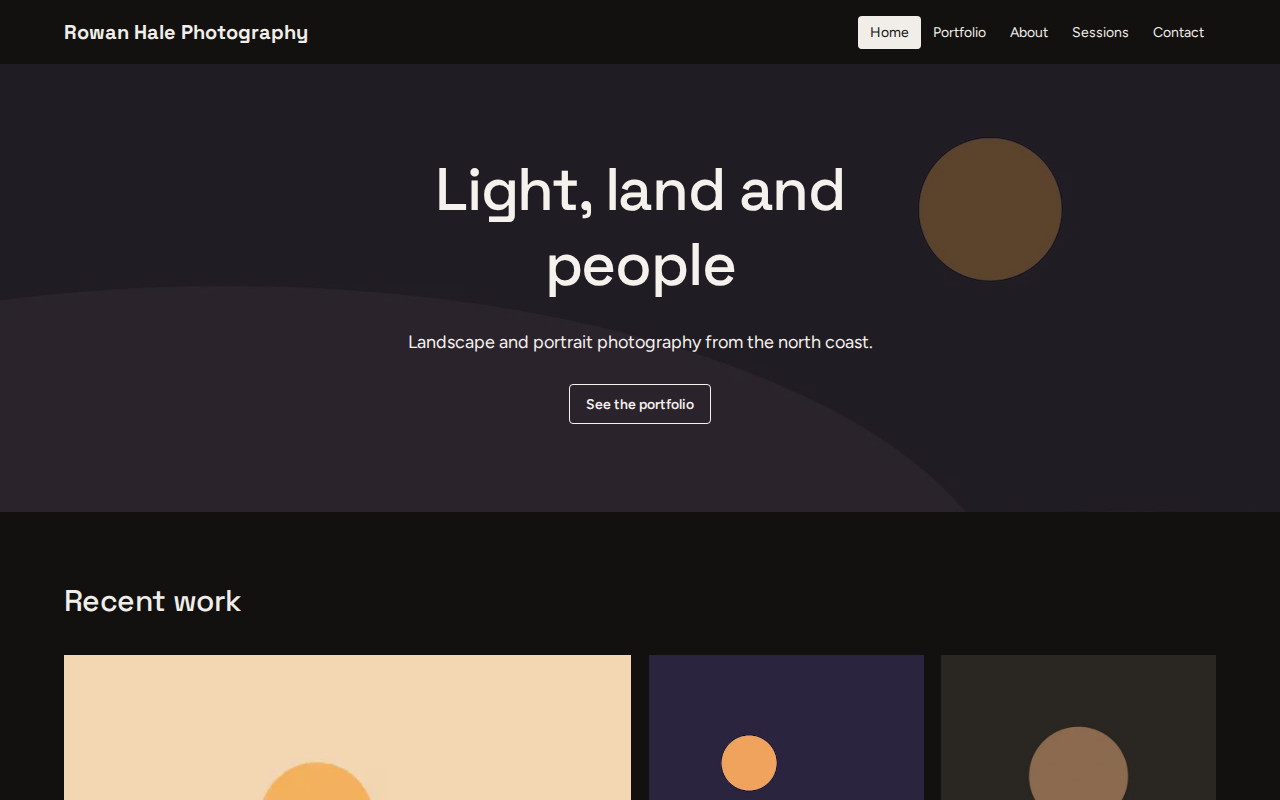
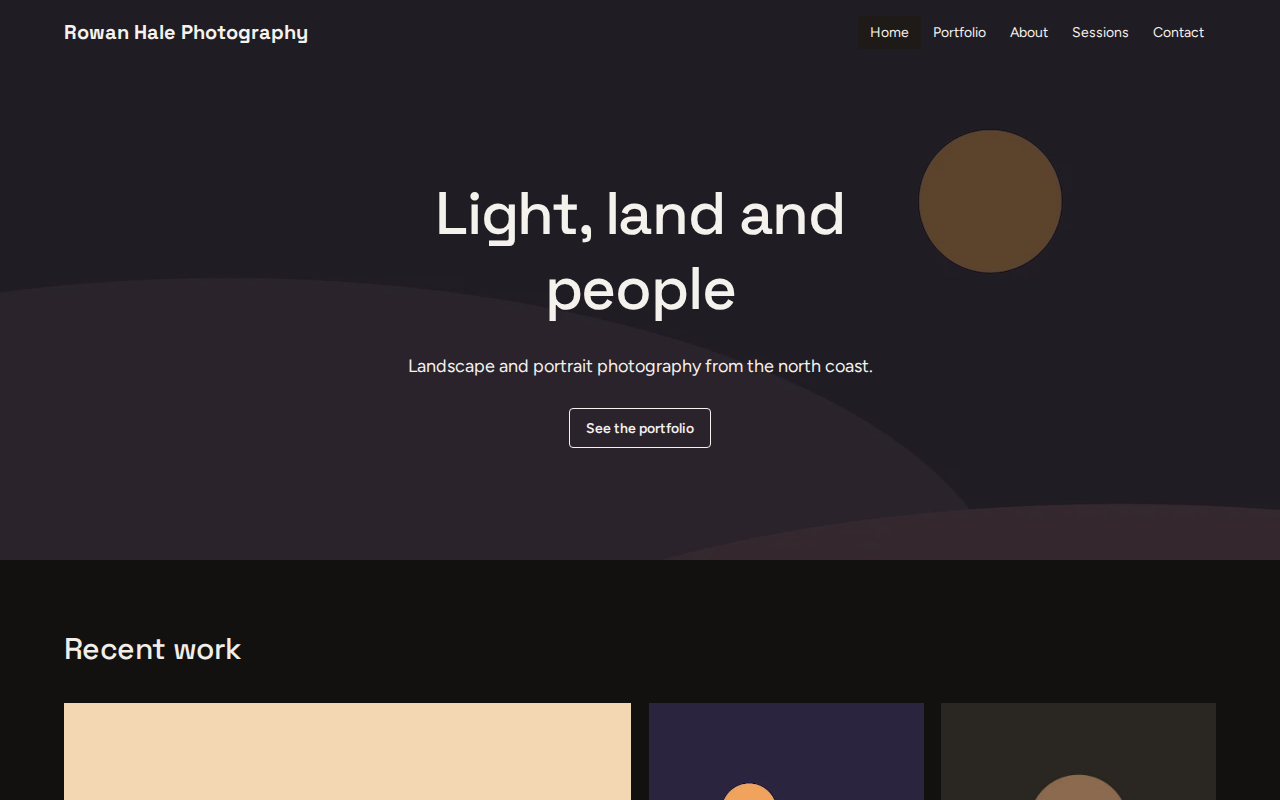
feat(templates): photographer starts with the header joined to its hero (hh-8)
Photographer's Header has the Background "The first section's", and its
Hero, with its picture behind the text, is Tall. The other templates keep
the Header's own band. Its thumbnail, template screenshots and golden
export are redrawn, and the help page says which template starts joined.

diff --git a/packages/pipeline/test/golden/templates/photographer/index.html b/packages/pipeline/test/golden/templates/photographer/index.html
@@ -4,7 +4,7 @@
   <meta charset="utf-8">
   <meta name="viewport" content="width=device-width, initial-scale=1">
   <title>Rowan Hale Photography</title>
-  <link rel="stylesheet" href="assets/css/site.ee17bc4243.css">
+  <link rel="stylesheet" href="assets/css/site.2ada935c7d.css">
   <meta property="og:type" content="website">
   <meta property="og:site_name" content="Rowan Hale Photography">
   <meta property="og:title" content="Rowan Hale Photography">
@@ -23,11 +23,11 @@
   "name": "Rowan Hale Photography"
 }
 </script>
-  <script defer src="assets/js/webforge.e687efd495.js"></script>
+  <script defer src="assets/js/webforge.8be1f85cf9.js"></script>
 </head>
 <body class="flex min-h-screen flex-col bg-base-100 font-sans text-base-content">
   <!-- Header (shared) -->
-  <header class="site-header relative z-30 px-4 bg-base-100 shadow-sm">
+  <header class="site-header relative z-30 px-4 -mb-(--wf-header-h) bg-transparent data-scrolled:text-base-content! [:root:has(&amp;)]:[--wf-header-h:4rem] text-neutral-content" data-wf-joined="" data-theme="wf_inverse">
     <div class="site-header-bar mx-auto w-full max-w-6xl navbar gap-2 px-0">
       <div class="flex-1"><a class="font-heading text-xl font-bold" href="index.html">Rowan Hale Photography</a></div>
       <nav aria-label="Main navigation">
@@ -39,10 +39,10 @@
           <li><a href="contact.html">Contact</a></li>
         </ul>
         <details class="site-menu md:hidden" data-wf-menu="">
-          <summary class="btn btn-square btn-ghost list-none [&amp;::-webkit-details-marker]:hidden"><svg xmlns="http://www.w3.org/2000/svg" viewBox="0 0 24 24" width="24" height="24" fill="none" stroke="currentColor" stroke-width="2" stroke-linecap="round" aria-hidden="true">
+          <summary class="btn btn-square btn-ghost list-none [&amp;::-webkit-details-marker]:hidden text-inherit"><svg xmlns="http://www.w3.org/2000/svg" viewBox="0 0 24 24" width="24" height="24" fill="none" stroke="currentColor" stroke-width="2" stroke-linecap="round" aria-hidden="true">
               <path d="M4 6h16M4 12h16M4 18h16"></path>
             </svg><span class="sr-only">Menu</span></summary>
-          <ul class="menu absolute inset-x-0 top-full z-10 w-full bg-base-100 p-2 shadow">
+          <ul class="menu absolute inset-x-0 top-full z-10 w-full bg-base-100 p-2 shadow text-base-content">
             <li><a href="index.html" aria-current="page">Home</a></li>
             <li><a href="portfolio.html">Portfolio</a></li>
             <li><a href="about.html">About</a></li>
@@ -54,7 +54,7 @@
     </div>
   </header>
   <main id="main" class="flex-1">
-    <section class="site-hero relative flex min-h-[28rem] items-center justify-center overflow-hidden bg-neutral px-4 py-16" data-theme="wf_inverse">
+    <section class="site-hero relative flex min-h-[max(28rem,calc(var(--wf-viewport-h,100svh)*0.7))] items-center justify-center overflow-hidden bg-neutral px-4 pt-[calc(var(--wf-header-h)+var(--spacing)*16)] pb-16" data-theme="wf_inverse">
       <picture>
         <source type="image/webp" srcSet="assets/img/hero-640.webp 640w, assets/img/hero-1280.webp 1280w, assets/img/hero-1800.webp 1800w" sizes="100vw" /><img src="assets/img/hero-1800.jpg" srcSet="assets/img/hero-640.jpg 640w, assets/img/hero-1280.jpg 1280w, assets/img/hero-1800.jpg 1800w" sizes="100vw" width="1800" height="1000" alt="Placeholder: the coast at sunset" loading="eager" fetchPriority="high" decoding="async" class="absolute inset-0 h-full w-full object-cover" />
       </picture>

diff --git a/packages/templates/test/templates.test.ts b/packages/templates/test/templates.test.ts
@@ -22,7 +22,13 @@ import {
   siteDocSchema,
 } from "@webforge/model";
 import { checkSite } from "@webforge/site-check";
-import { isIconName, sectionOverlay, siteLibrary, walkNodes } from "@webforge/site-components";
+import {
+  isIconName,
+  joinedHeaderOf,
+  sectionOverlay,
+  siteLibrary,
+  walkNodes,
+} from "@webforge/site-components";
 import { CATALOGUE } from "@webforge/site-components/catalogue-data";
 import { TEST_DIR_REMOVAL } from "@webforge/test-utils/vitest";
 import { overlayContrastIssue, THEME_PRESETS } from "@webforge/themes";
@@ -398,6 +404,31 @@ describe("siteFromTemplate (2.14a)", () => {
       siteFromTemplate(own, images, { name: "x", theme: DEFAULT_THEME }).settings.general
         .businessType,
     ).toBe("shop");
+  });
+
+  it("joins the Header to the Hero in Photographer only, where its picture is behind the text (HH-8)", () => {
+    const joinedPages: Record<string, string[]> = {};
+    for (const { template, images } of templates) {
+      // As New Site and the quick start make it.
+      const site = siteFromTemplate(template, images, { name: "x", theme: DEFAULT_THEME });
+      const header = site.layout.header.find((node) => node.type === "Header");
+      expect(header?.props.background === "section", template.id).toBe(
+        template.id === "photographer",
+      );
+      joinedPages[template.id] = site.pageOrder.filter(
+        (id) =>
+          joinedHeaderOf(
+            { header: site.layout.header, content: site.pages[id]?.doc.content ?? [] },
+            siteLibrary,
+          ) !== undefined,
+      );
+    }
+    // Its other pages open on the page's own colours, so the Header keeps its band there (HH-1).
+    const photographer = templates.find(({ template }) => template.id === "photographer");
+    expect(joinedPages).toEqual({
+      ...Object.fromEntries(TEMPLATE_IDS.map((id) => [id, []])),
+      photographer: [photographer?.template.site.homePageId],
+    });
   });
 
   it("makes the template's site, named and in the chosen theme, with its images in Media", () => {

diff --git a/packages/pipeline/test/golden/templates/photographer/404.html b/packages/pipeline/test/golden/templates/photographer/404.html
@@ -4,13 +4,13 @@
   <meta charset="utf-8">
   <meta name="viewport" content="width=device-width, initial-scale=1">
   <title>Page not found | Rowan Hale Photography</title>
-  <link rel="stylesheet" href="/assets/css/site.ee17bc4243.css">
+  <link rel="stylesheet" href="/assets/css/site.2ada935c7d.css">
   <meta name="robots" content="noindex">
   <meta property="og:type" content="website">
   <meta property="og:site_name" content="Rowan Hale Photography">
   <meta property="og:title" content="Page not found | Rowan Hale Photography">
   <meta name="twitter:card" content="summary">
-  <script defer src="/assets/js/webforge.e687efd495.js"></script>
+  <script defer src="/assets/js/webforge.8be1f85cf9.js"></script>
 </head>
 <body class="flex min-h-screen flex-col bg-base-100 font-sans text-base-content">
   <!-- Header (shared) -->

diff --git a/packages/pipeline/test/golden/templates/photographer/portfolio.html b/packages/pipeline/test/golden/templates/photographer/portfolio.html
@@ -4,12 +4,12 @@
   <meta charset="utf-8">
   <meta name="viewport" content="width=device-width, initial-scale=1">
   <title>Portfolio | Rowan Hale Photography</title>
-  <link rel="stylesheet" href="assets/css/site.ee17bc4243.css">
+  <link rel="stylesheet" href="assets/css/site.2ada935c7d.css">
   <meta property="og:type" content="website">
   <meta property="og:site_name" content="Rowan Hale Photography">
   <meta property="og:title" content="Portfolio | Rowan Hale Photography">
   <meta name="twitter:card" content="summary">
-  <script defer src="assets/js/webforge.e687efd495.js"></script>
+  <script defer src="assets/js/webforge.8be1f85cf9.js"></script>
 </head>
 <body class="flex min-h-screen flex-col bg-base-100 font-sans text-base-content">
   <!-- Header (shared) -->

diff --git a/packages/pipeline/test/golden/templates/photographer/sessions.html b/packages/pipeline/test/golden/templates/photographer/sessions.html
@@ -4,12 +4,12 @@
   <meta charset="utf-8">
   <meta name="viewport" content="width=device-width, initial-scale=1">
   <title>Sessions | Rowan Hale Photography</title>
-  <link rel="stylesheet" href="assets/css/site.ee17bc4243.css">
+  <link rel="stylesheet" href="assets/css/site.2ada935c7d.css">
   <meta property="og:type" content="website">
   <meta property="og:site_name" content="Rowan Hale Photography">
   <meta property="og:title" content="Sessions | Rowan Hale Photography">
   <meta name="twitter:card" content="summary">
-  <script defer src="assets/js/webforge.e687efd495.js"></script>
+  <script defer src="assets/js/webforge.8be1f85cf9.js"></script>
 </head>
 <body class="flex min-h-screen flex-col bg-base-100 font-sans text-base-content">
   <!-- Header (shared) -->

diff --git a/packages/pipeline/test/golden/templates/photographer/contact.html b/packages/pipeline/test/golden/templates/photographer/contact.html
@@ -4,12 +4,12 @@
   <meta charset="utf-8">
   <meta name="viewport" content="width=device-width, initial-scale=1">
   <title>Contact | Rowan Hale Photography</title>
-  <link rel="stylesheet" href="assets/css/site.ee17bc4243.css">
+  <link rel="stylesheet" href="assets/css/site.2ada935c7d.css">
   <meta property="og:type" content="website">
   <meta property="og:site_name" content="Rowan Hale Photography">
   <meta property="og:title" content="Contact | Rowan Hale Photography">
   <meta name="twitter:card" content="summary">
-  <script defer src="assets/js/webforge.e687efd495.js"></script>
+  <script defer src="assets/js/webforge.8be1f85cf9.js"></script>
 </head>
 <body class="flex min-h-screen flex-col bg-base-100 font-sans text-base-content">
   <!-- Header (shared) -->

diff --git a/packages/pipeline/test/golden/templates/photographer/about.html b/packages/pipeline/test/golden/templates/photographer/about.html
@@ -4,12 +4,12 @@
   <meta charset="utf-8">
   <meta name="viewport" content="width=device-width, initial-scale=1">
   <title>About | Rowan Hale Photography</title>
-  <link rel="stylesheet" href="assets/css/site.ee17bc4243.css">
+  <link rel="stylesheet" href="assets/css/site.2ada935c7d.css">
   <meta property="og:type" content="website">
   <meta property="og:site_name" content="Rowan Hale Photography">
   <meta property="og:title" content="About | Rowan Hale Photography">
   <meta name="twitter:card" content="summary">
-  <script defer src="assets/js/webforge.e687efd495.js"></script>
+  <script defer src="assets/js/webforge.8be1f85cf9.js"></script>
 </head>
 <body class="flex min-h-screen flex-col bg-base-100 font-sans text-base-content">
   <!-- Header (shared) -->

diff --git a/docs/help/header-and-footer.md b/docs/help/header-and-footer.md
@@ -46,6 +46,7 @@ With the Header's **Background** at _The first section's_, each page follows its
 - On a dark colour, or a photo under a dark overlay, the Header shows your [Logo for dark backgrounds](site-settings.md#general), if you chose one. A Header that stays at the top changes to your logo as it turns solid in the page's colours, and back at the top of the page.
 - The menu is as easy to read as the section's own text: if the section's text is hard to read on its picture, {appName} warns you, and a stronger overlay helps both.
 - A Hero that opens its page has a **Header** line at the top of its **Style** tab's Options: **Change in the Header** selects the Header.
+- A new site from the [Photographer / Portfolio template](templates.md), whose Hero has a picture behind its text, starts with _The first section's_. A new site from any other template starts with _Its own_.
 - A site made before this setting keeps _Its own_, so nothing moves until you change it.
 
 On phones the menu folds into a button. To see and edit it open, view Mobile, select the Header and turn on **Show mobile menu**.
